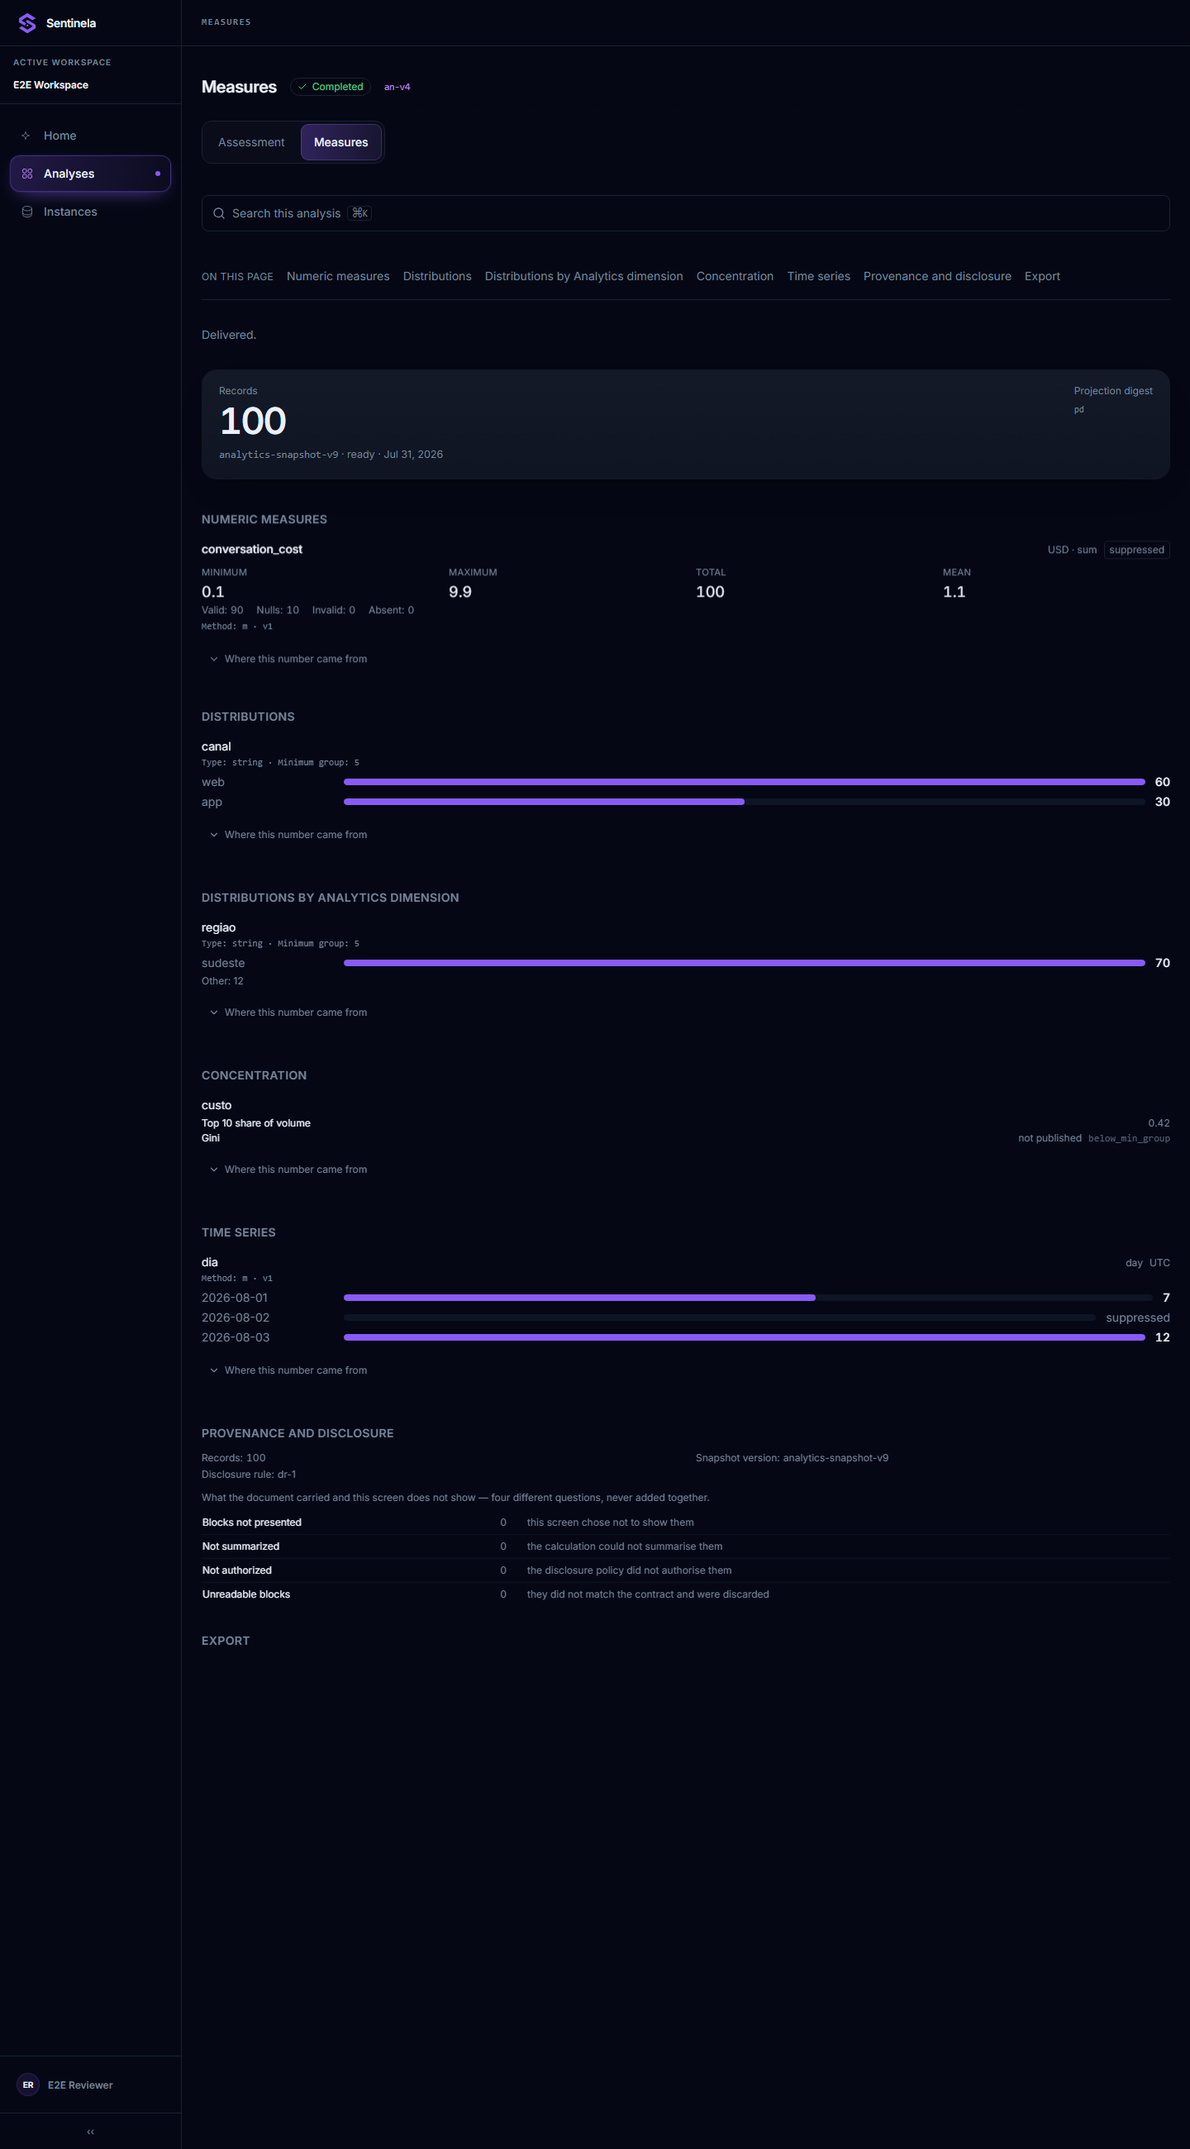
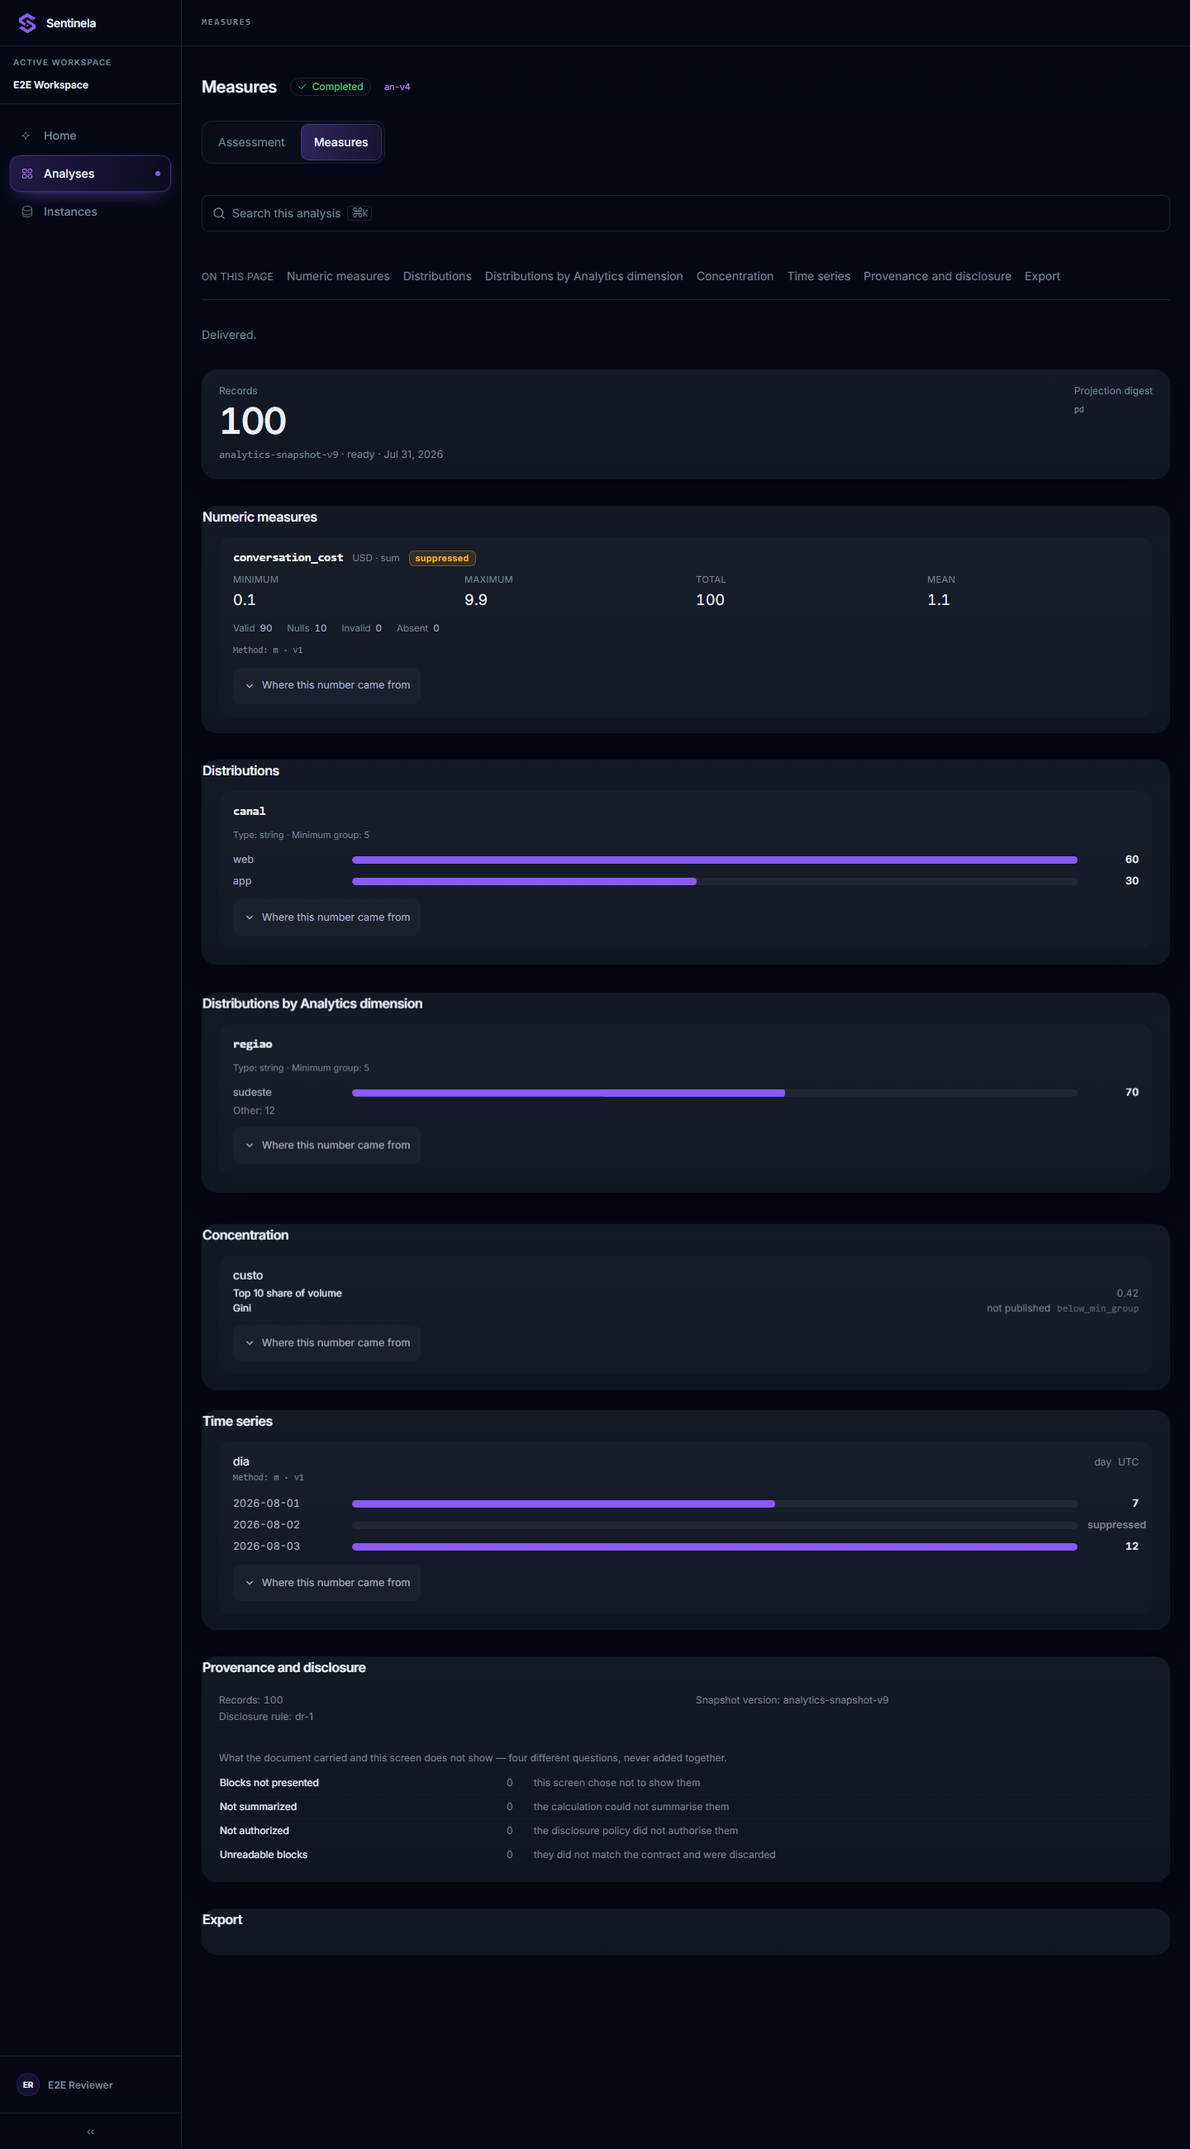
As regioes de Medidas, e uma imagem que mentia sobre o dado
A folha de Medidas ja estava portada; faltava o DOM que ela espera.

## O que entrou

Cada regiao virou `painel.reg` — moldura propria, com cabecalho e corpo. Antes eram sete
titulos numa coluna com itens soltos embaixo, e nada dizendo onde uma familia acaba e a
seguinte comeca. Numa tela de sete regioes com blocos repetidos dentro, a moldura E a
fronteira.

Cada medida virou `article.bloco-med`, com `.cabeca` (nome, unidade, selo de supressao),
`.stats`, `.contagens`, `.metodo-linha` e o gatilho `.desdobra`.

O `Bar` ganhou NOMES nas tres celulas — `rot`, `barra-g`, `qtd`. A estrutura dele ja era a da
V4; o que faltava era vocabulario para a folha alcanca-la. Os utilitarios do Tailwind
continuam: fora do escopo `.v4-medidas` a barra e exatamente o que era. A alternativa era
duplicar o componente com outro DOM, e duas barras livres para divergir mostrando o mesmo fato
e a duplicacao que este porte existe para nao criar.

## A imagem mentia sobre o DADO

A captura mostrou `web 60` com barra CURTA e `app 30` com barra LONGA. Invertido.

Nao era defeito: as barras revelam com `scaleX(0) -> scaleX(1)`, e a captura pegou cada uma num
ponto diferente da propria animacao.

O que importa e o que quase aconteceu: nenhuma asercao existente pegaria isso, porque todas
leem TEXTO — e o texto estava certo, `60` e `30` nos lugares certos. Uma imagem pode mentir
sobre o dado sem que uma unica frase da tela minta.

Duas coisas mudaram por causa disso:
[…]

diff --git a/src/features/canonical-analysis/ui/analytics/AnalyticsView.tsx b/src/features/canonical-analysis/ui/analytics/AnalyticsView.tsx
@@ -59,11 +59,20 @@ function Secao({
   readonly children: React.ReactNode;
 }) {
   return (
-    <section data-revelar aria-labelledby={id} className="space-y-1">
-      <h2 id={id} className="text-sm font-semibold uppercase tracking-wide text-muted-foreground">
-        {titulo}
-      </h2>
-      {children}
+    /* `painel reg` — a regiao é um PAINEL, e não um titulo com conteudo solto embaixo.
+
+       Antes cada regiao era um `<h2>` seguido de itens sem moldura: sete titulos numa coluna, e
+       nada dizendo onde uma acaba e a outra comeca. Numa tela de sete regioes com blocos
+       repetidos dentro, a moldura E a fronteira — sem ela a pessoa rola sem saber em qual
+       familia esta.
+
+       `data-revelar` fica: ele e o gancho da revelacao por rolagem, e nao tem nada a ver com o
+       desenho. */
+    <section data-revelar aria-labelledby={id} className="painel reg">
+      <header>
+        <h2 id={id}>{titulo}</h2>
+      </header>
+      <div className="corpo">{children}</div>
     </section>
   );
 }
@@ -75,13 +84,13 @@ function Contagens({
   readonly itens: readonly { rotulo: string; valor: number | null }[];
 }) {
   return (
-    <dl className="flex flex-wrap gap-x-4 gap-y-0.5 text-xs text-muted-foreground">
+    <dl className="contagens">
       {itens
         .filter((i) => i.valor !== null)
         .map((i) => (
-          <div key={i.rotulo} className="flex gap-1">
-            <dt>{i.rotulo}:</dt>
-            <dd className="tabular-nums">{i.valor}</dd>
+          <div key={i.rotulo}>
+            <dt>{i.rotulo}</dt>
+            <dd>{i.valor}</dd>
           </div>
         ))}
     </dl>
@@ -287,10 +296,7 @@ function Estatisticas({
 function Suprimido() {
   const { t } = useLanguage();
   return (
-    <span
-      className="inline-flex items-center rounded border border-border px-1.5 py-0.5 text-xs text-muted-foreground"
-      data-suprimido="true"
-    >
+    <span className="selo-supr" data-suprimido="true">
       {t("canonicalAnalysis.analyticsView.suppressed")}
     </span>
   );
@@ -301,10 +307,10 @@ export function Numericos({ snapshot }: { readonly snapshot: SnapshotAnalitico }
   return (
     <div>
       {snapshot.numeric.map((m) => (
-        <div key={m.measure_id} className="border-b border-border/60 py-3 last:border-b-0">
-          <div className="flex flex-wrap items-baseline justify-between gap-2">
-            <span className="text-sm font-medium">{m.measure_id}</span>
-            <span className="flex items-center gap-2 text-xs text-muted-foreground">
+        <article key={m.measure_id} className="bloco-med">
+          <div className="cabeca">
+            <h3>{m.measure_id}</h3>
+            <span className="un">
               {/* `semantic_role` diz o que a medida É — soma, contagem, média. Sem ele, quem lê
                   "total 8,96" não sabe se somar com outro total faz sentido. Está publicado e
                   não era renderizado. */}
@@ -312,8 +318,8 @@ export function Numericos({ snapshot }: { readonly snapshot: SnapshotAnalitico }
                 {m.unit}
                 {m.semantic_role ? ` · ${m.semantic_role}` : ""}
               </span>
-              {m.suppression_applied ? <Suprimido /> : null}
             </span>
+            {m.suppression_applied ? <Suprimido /> : null}
           </div>
           <Estatisticas medida={m} />
           <Contagens
@@ -331,7 +337,7 @@ export function Numericos({ snapshot }: { readonly snapshot: SnapshotAnalitico }
           {/* A linha inteira vem do dicionário, com interpolação: o `· v` entre o id e a versão é
               copy, e o gate de texto literal reprovou — com razão. Prefixo de versão muda por
               idioma tanto quanto qualquer outra palavra. */}
-          <p className="mt-1 font-mono text-[0.7rem] text-muted-foreground">
+          <p className="metodo-linha">
             {t("canonicalAnalysis.analyticsView.methodLine", {
               id: m.method_id,
               version: String(m.method_version),
@@ -344,12 +350,12 @@ export function Numericos({ snapshot }: { readonly snapshot: SnapshotAnalitico }
               contagem, que é o fato de primeira leitura, some no meio.
               Mesma regra da procedência em RES-01: marginália, não corpo. */}
           <Disclosure
-            className="mt-2"
+            className="desdobra"
             gatilho={t("canonicalAnalysis.analyticsView.mapTitle")}
           >
             <MapaDeProcedencia bloco={{ tipo: "numerico", dado: m }} denominador={snapshot.record_count} />
           </Disclosure>
-        </div>
+        </article>
       ))}
     </div>
   );
@@ -370,16 +376,16 @@ function Distribuicoes({
   return (
     <div>
       {itens.map((d, iBloco) => (
-        <div key={d.measure_id} className="border-b border-border/60 py-3 last:border-b-0">
-          <div className="flex flex-wrap items-baseline justify-between gap-2">
-            <span className="text-sm">{d.measure_id}</span>
+        <article key={d.measure_id} className="bloco-med">
+          <div className="cabeca">
+            <h3>{d.measure_id}</h3>
             {d.suppression_applied || d.high_cardinality_suppressed ? <Suprimido /> : null}
           </div>
           {/* O PISO DE PRIVACIDADE é a origem da supressão, e estava publicado sem aparecer.
               Sem ele, "suprimido" é uma conclusão sem causa: com ele, a pessoa sabe que grupos
               abaixo de N não podem ser publicados, e para de procurar um erro de carga.
               `value_type` diz sobre que TIPO de valor a distribuição foi montada. */}
-          <p className="mt-0.5 font-mono text-[0.7rem] text-muted-foreground">
+          <p className="regra-priv">
             {t("canonicalAnalysis.analyticsView.valueType")}: {d.value_type}
             {" · "}
             {t("canonicalAnalysis.analyticsView.minGroup")}: {d.min_group_size}
@@ -387,7 +393,7 @@ function Distribuicoes({
           {/* A contagem continua em texto, ao lado da barra. A barra é REDUNDÂNCIA: quem não
               distingue comprimento lê o número, e quem lê rápido vê a forma. Nenhum fato desta
               lista existe só na barra — é a regra que proíbe informação por cor ou forma sozinha. */}
-          <ul className="mt-1 space-y-1">
+          <ul className="grupos">
             {d.groups.map((g, i) => (
               <Bar
                 key={g.label}
@@ -405,10 +411,10 @@ function Distribuicoes({
               {t("canonicalAnalysis.analyticsView.other")}: {d.other_count}
             </p>
           ) : null}
-          <Disclosure className="mt-2" gatilho={t("canonicalAnalysis.analyticsView.mapTitle")}>
+          <Disclosure className="desdobra" gatilho={t("canonicalAnalysis.analyticsView.mapTitle")}>
             <MapaDeProcedencia bloco={{ tipo: "distribuicao", dado: d }} denominador={denominador} />
           </Disclosure>
-        </div>
+        </article>
       ))}
     </div>
   );
@@ -426,7 +432,7 @@ function Concentracoes({ snapshot }: { readonly snapshot: SnapshotAnalitico }) {
   return (
     <div>
       {snapshot.concentrations.map((c, iBloco) => (
-        <div key={c.measure_id} className="border-b border-border/60 py-3 last:border-b-0">
+        <div key={c.measure_id} className="bloco-med">
           <div className="flex flex-wrap items-baseline justify-between gap-2">
             <span className="text-sm">{c.measure_id}</span>
             {c.suppression_applied || c.coarsening_applied ? <Suprimido /> : null}
@@ -494,7 +500,7 @@ function Concentracoes({ snapshot }: { readonly snapshot: SnapshotAnalitico }) {
               recusas distintas — grosseirização, supressão e cardinalidade alta. Cada uma vira seu
               próprio nó no mapa: agrupá-las num "suprimido" único apagaria por que o número não
               veio, que é justamente o que alguém abre o mapa para descobrir. */}
-          <Disclosure className="mt-2" gatilho={t("canonicalAnalysis.analyticsView.mapTitle")}>
+          <Disclosure className="desdobra" gatilho={t("canonicalAnalysis.analyticsView.mapTitle")}>
             <MapaDeProcedencia
               bloco={{ tipo: "concentracao", dado: c }}
               denominador={snapshot.record_count}
@@ -562,7 +568,7 @@ function Series({ snapshot }: { readonly snapshot: SnapshotAnalitico }) {
   return (
     <div>
       {snapshot.time_series.map((s, iBloco) => (
-        <div key={s.dimension_id} className="border-b border-border/60 py-3 last:border-b-0">
+        <div key={s.dimension_id} className="bloco-med">
           <div className="flex flex-wrap items-baseline justify-between gap-2">
             <span className="text-sm">{s.dimension_id}</span>
             <span className="flex items-center gap-2 text-xs text-muted-foreground">
@@ -582,7 +588,7 @@ function Series({ snapshot }: { readonly snapshot: SnapshotAnalitico }) {
               pelo outro apagaria a diferença entre "não houve" e "não podemos dizer". O `Bar` já
               sabe disso: com `suprimida` ele não desenha barra alguma, porque barra de largura
               zero e barra de valor zero são indistinguíveis e afirmam o oposto. */}
-          <ul className="mt-1 space-y-1">
+          <ul className="grupos">
             {s.windows.map((j, i) => (
               <Bar
                 key={j.window_start}
@@ -596,7 +602,7 @@ function Series({ snapshot }: { readonly snapshot: SnapshotAnalitico }) {
           </ul>
           {/* A série desdobra em JANELAS, e a janela suprimida entra no mapa com a hachura —
               `count: null` acontece apenas em `suppressed`, e zero é valor. */}
-          <Disclosure className="mt-2" gatilho={t("canonicalAnalysis.analyticsView.mapTitle")}>
+          <Disclosure className="desdobra" gatilho={t("canonicalAnalysis.analyticsView.mapTitle")}>
             <MapaDeProcedencia
               bloco={{ tipo: "serie", dado: s }}
               denominador={snapshot.record_count}

diff --git a/e2e/largura-da-barra.spec.ts b/e2e/largura-da-barra.spec.ts
@@ -1,0 +1,53 @@
+// A LARGURA da barra e proporcional ao valor — provado por medida, nao por olhar a captura.
+//
+// A captura de Medidas mostrou `web 60` com barra curta e `app 30` com barra longa. Era artefato
+// da animacao de revelacao, e nenhuma asercao existente pegaria: todas leem TEXTO, e o texto
+// estava certo. Uma imagem pode mentir sobre o dado sem que uma unica frase da tela minta.
+//
+// Este caso le a largura que o componente escreveu e compara as duas. Ele falharia se a ordem
+// das larguras se invertesse de verdade — que e a unica coisa que a captura sugeriu.
+import { readFileSync } from "node:fs";
+import { dirname, resolve } from "node:path";
+import { fileURLToPath } from "node:url";
+import { expect, test, type Page } from "@playwright/test";
+import { vistaAnalytics } from "../src/test/fixtures/canonical-result/analyticsSnapshot";
+
+const AQUI = dirname(fileURLToPath(import.meta.url));
+const DOC = () =>
+  JSON.parse(readFileSync(resolve(AQUI, "../src/test/fixtures/canonical-result/argos-v3-homol.json"), "utf-8"));
+
+async function semear(page: Page, id: string) {
+  await page.addInitScript(([i, d, a]) => {
+    (window as unknown as Record<string, unknown>).__SENTINELA_E2E_AUTH__ = true;
+    sessionStorage.setItem(
+      "__sentinela_journey__",
+      JSON.stringify({ [i as string]: { seq: ["completed"], idx: 0, retryAllowed: false } }),
+    );
+    sessionStorage.setItem("__sentinela_result_v3__", JSON.stringify({ [i as string]: d }));
+    sessionStorage.setItem("__sentinela_analytics__", JSON.stringify({ [i as string]: a }));
+  }, [id, DOC(), vistaAnalytics(id)] as const);
+}
+
+test("a barra maior pertence ao valor maior", async ({ page }) => {
+  await page.emulateMedia({ reducedMotion: "reduce" });
+  await semear(page, "an-larg");
+  await page.goto("/analyses/an-larg/analytics");
+
+  // A massa publica `web: 60` e `app: 30` na distribuicao `canal`.
+  const linhas = page.locator(".grupos li").filter({ hasText: /web|app/ });
+  await expect(linhas.first()).toBeVisible({ timeout: 15_000 });
+
+  const largura = async (rotulo: string) => {
+    const li = page.locator(".grupos li").filter({ hasText: rotulo }).first();
+    const preenchida = li.locator(".barra-g > *").first();
+    const caixa = await preenchida.boundingBox();
+    expect(caixa, `barra de ${rotulo} nao foi encontrada`).not.toBeNull();
+    return caixa!.width;
+  };
+
+  const web = await largura("web");
+  const app = await largura("app");
+  // 60 contra 30: a de web tem de ser MAIOR, e com folga — nao apenas diferente.
+  expect(web, `web=60 deveria desenhar mais largo que app=30 (web ${web}, app ${app})`)
+    .toBeGreaterThan(app * 1.5);
+});

diff --git a/e2e/v4-diagnostico.spec.ts b/e2e/v4-diagnostico.spec.ts
@@ -30,6 +30,21 @@ const DOC = () =>
   JSON.parse(readFileSync(resolve(AQUI, "../src/test/fixtures/canonical-result/argos-v3-homol.json"), "utf-8"));
 const SAIDA = resolve(AQUI, "../docs/v4");
 
+/**
+ * MOVIMENTO DESLIGADO na captura, e nao e economia de tempo.
+ *
+ * As barras revelam com `scaleX(0) -> scaleX(1)`, e a captura as pegava a meio caminho: numa
+ * leitura a distribuicao aparecia INVERTIDA — `web 60` com barra curta e `app 30` com barra
+ * longa —, porque cada uma estava num ponto diferente da propria animacao.
+ *
+ * A imagem mentia sobre o dado, e nenhuma asercao pegaria: elas leem texto, e o texto estava
+ * certo. Com `reducedMotion: reduce` o produto entrega o estado final direto — a mesma
+ * preferencia que ele ja respeita para quem a declara no sistema.
+ */
+async function semMovimento(page: Page) {
+  await page.emulateMedia({ reducedMotion: "reduce" });
+}
+
 async function semear(page: Page, id: string, v3: unknown, anl: unknown = null) {
   await page.addInitScript(([i, d, a]) => {
     (window as unknown as Record<string, unknown>).__SENTINELA_E2E_AUTH__ = true;
@@ -57,6 +72,7 @@ async function semear(page: Page, id: string, v3: unknown, anl: unknown = null) 
 for (const [vp, w, h] of [["desktop", 1440, 2600], ["tablet", 768, 3200], ["mobile", 375, 4200]] as const) {
   test(`diagnostico-v4 @ ${vp}`, async ({ page }) => {
     await page.setViewportSize({ width: w, height: h });
+    await semMovimento(page);
     await semear(page, "an-v4", DOC());
     await page.goto("/analyses/an-v4/argos");
     const main = page.locator("main");

diff --git a/src/design/primitives/Bar.tsx b/src/design/primitives/Bar.tsx
@@ -32,11 +32,14 @@ export function Bar({
   rotuloSuprimido: string;
 }) {
   return (
+    /* Os tres nomes (`rot`, `barra-g`, `qtd`) sao o vocabulario da folha portada do Molde.
+       Eles NAO substituem os utilitarios: convivem, e a folha so os alcanca dentro do
+       escopo dela. Fora dele a barra continua exatamente como era. */
     <li className="grid grid-cols-[minmax(6rem,10rem)_1fr_auto] items-center gap-3 text-sm">
-      <span className="truncate text-muted-foreground" title={rotulo}>
+      <span className="rot truncate text-muted-foreground" title={rotulo}>
         {rotulo}
       </span>
-      <span className="h-2 w-full overflow-hidden rounded-full bg-muted" aria-hidden="true">
+      <span className="barra-g h-2 w-full overflow-hidden rounded-full bg-muted" aria-hidden="true">
         {/* Suprimida NÃO desenha barra de largura zero: uma barra vazia e uma barra de valor zero
             são indistinguíveis, e as duas afirmam coisas opostas. */}
         {!suprimida && (
@@ -56,7 +59,11 @@ export function Bar({
           />
         )}
       </span>
-      <span className={suprimida ? "text-muted-foreground" : "font-medium tabular-nums text-foreground"}>
+      <span
+        className={
+          suprimida ? "qtd text-muted-foreground" : "qtd font-medium tabular-nums text-foreground"
+        }
+      >
         {valor ?? rotuloSuprimido}
       </span>
     </li>

diff --git a/src/features/canonical-analysis/ui/analytics/porQueEstaVazio.test.tsx b/src/features/canonical-analysis/ui/analytics/porQueEstaVazio.test.tsx
@@ -70,7 +70,20 @@ async function faixa(snapshot: SnapshotAnalitico) {
 }
 
 describe("a tela diz por que está vazia", () => {
-  it("sem nada aberto por campo, explica e mostra o caminho", async () => {
+  // ORÇAMENTO PRÓPRIO para o primeiro caso, e ele não é conveniência.
+  //
+  // Ele monta a `AnalyticsView` inteira contra MSW — a montagem mais cara desta suíte — e mede
+  // ~2,3s isolado. O teto padrão de 5s cabia com folga aparente, e sob a carga da suíte inteira
+  // (145 arquivos em paralelo) ele estourou DUAS vezes em execuções diferentes, sempre neste
+  // caso e sempre no primeiro `it` do arquivo, que é quem paga o custo de subir o servidor de
+  // mock.
+  //
+  // Um caso que falha por CONCORRÊNCIA e passa isolado ensina a suíte a ser ignorada: quem vê o
+  // vermelho reroda, fica verde, e da terceira vez para de olhar. O orçamento sobe uma vez, com
+  // a medição escrita, em vez de o vermelho virar folclore.
+  //
+  // 15s e não 10: o teto tem de ficar longe do pior caso medido, não colado nele.
+  it("sem nada aberto por campo, explica e mostra o caminho", { timeout: 15_000 }, async () => {
     const { unmount } = await faixa(vazio());
 
     expect(screen.getByText("Nothing is broken down by field")).toBeTruthy();
